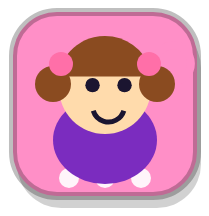
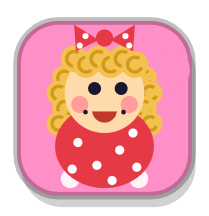
New kid looks, chore-reward framing, playtest fixes and a header image
- Redraw the 4 kids: Monster is a fuzzy purple monster, JoJo a potato
  creature, Little Miss has blonde ringlets and a polka-dot dress, and
  Frankenstein is a sad teenage monster in a hoodie. Portraits and
  screenshots are rendered again from the game.
- Describe the game as a reward for kids who finish their chores, and
  drop the kitchen-screen details from the docs and the game code.
- Fix playtest defects: one tap buys one kid, no idle jump to the intro
  page, the best-wave label, and a race in the playthrough test.
- Add a header image to the README.

diff --git a/game.html b/game.html
@@ -159,7 +159,7 @@ button:focus-visible { outline: .12em solid var(--gum); outline-offset: .1em; }
     <div class="chips">
       <button class="chip" id="speed" aria-label="Game speed">1×</button>
       <button class="chip" id="menu">Pause</button>
-      <button class="chip" id="home" hidden>Week</button>
+      <button class="chip" id="home" hidden>Home</button>
     </div>
   </header>
 
@@ -182,8 +182,8 @@ button:focus-visible { outline: .12em solid var(--gum); outline-offset: .1em; }
 'use strict';
 // ---------- Config ----------
 const COLS = 9, ROWS = 12, CS = 120, W = COLS * CS, H = ROWS * CS;
-const KIOSK = location.protocol === 'file:';   // on the kitchen screen: Home button + idle return
-const HOME_URL = 'index.html', IDLE_MS = 180000, LAST_WAVE = 30;
+const FROM_DISK = location.protocol === 'file:';   // opened from disk: show a Home button to the intro page
+const HOME_URL = 'index.html', LAST_WAVE = 30;
 
 const TOWERS = {
   nerf:    { name: 'Monster', role: 'Nerf blaster', cost: 50, air: true, tag: 'Fast darts. Hits kites.',
@@ -541,25 +541,90 @@ function drawKid(g, type, x, y, ang, lvl, fireAge) {
     g.restore();
   };
   if (behind) item();
-  g.fillStyle = D.shirt; ell(g, x, y + 18, 26, 22); g.fill();
-  g.fillStyle = D.skin; circ(g, x, y - 8, 23); g.fill();
-  g.fillStyle = D.hair;
+  const px = Math.cos(ang) * 2.5, pyy = Math.sin(ang) * 2, INK = '#1b1530';
+  // white eyes with pupils that follow the aim
+  const eyes = (dx, ey, r, look) => {
+    for (const s of [-1, 1]) {
+      g.fillStyle = '#fff'; circ(g, x + s * dx, ey, r); g.fill();
+      g.fillStyle = INK; circ(g, x + s * dx + px * look, ey + pyy * look, r * .5); g.fill();
+    }
+  };
   if (type === 'nerf') {
-    g.beginPath(); g.arc(x, y - 12, 24, Math.PI, 0); g.fill();
-    g.beginPath(); g.ellipse(x + Math.cos(ang) * 14, y - 14 + Math.sin(ang) * 4, 16, 6, 0, 0, Math.PI * 2); g.fill();
+    // Monster: a round, fuzzy purple monster with stubby horns and a fanged grin
+    g.fillStyle = '#5b3fc4'; ell(g, x, y + 19, 26, 22); g.fill();
+    g.fillStyle = '#b9a6ff'; ell(g, x, y + 23, 14, 12); g.fill();
+    g.fillStyle = '#fff1c9';
+    for (const s of [-1, 1]) {
+      g.beginPath(); g.moveTo(x + s * 8, y - 24); g.quadraticCurveTo(x + s * 20, y - 34, x + s * 21, y - 46);
+      g.quadraticCurveTo(x + s * 13, y - 40, x + s * 2, y - 28); g.closePath(); g.fill();
+    }
+    g.fillStyle = '#7356ec';
+    for (let i = 0; i < 14; i++) { const a = i / 14 * Math.PI * 2; circ(g, x + Math.cos(a) * 21, y - 8 + Math.sin(a) * 20, 6.5); g.fill(); }
+    circ(g, x, y - 8, 22); g.fill();
+    g.fillStyle = '#8a70ff'; circ(g, x - 8, y - 20, 5); g.fill(); circ(g, x + 9, y - 22, 4); g.fill();
+    eyes(8, y - 12, 7, 1.2);
+    g.fillStyle = INK; g.beginPath(); g.arc(x, y - 1, 11, .2, Math.PI - .2); g.closePath(); g.fill();
+    g.fillStyle = '#ff6fa8'; ell(g, x, y + 7, 5, 2.5); g.fill();
+    g.fillStyle = '#fff';
+    for (const s of [-1, 1]) { g.beginPath(); g.moveTo(x + s * 7, y + 1); g.lineTo(x + s * 3, y + 1); g.lineTo(x + s * 5, y + 6); g.closePath(); g.fill(); }
   } else if (type === 'balloon') {
-    for (let i = 0; i < 7; i++) { circ(g, x - 18 + i * 6, y - 26 + Math.abs(i - 3) * 2.5, 8); g.fill(); }
+    // JoJo: a lumpy potato creature with stick-on ears, googly eyes and a big pink nose
+    g.fillStyle = '#e07a5f';
+    for (const s of [-1, 1]) { g.beginPath(); g.ellipse(x + s * 26, y - 6, 6, 9, s * .3, 0, Math.PI * 2); g.fill(); }
+    g.fillStyle = '#c99b62'; g.beginPath(); g.ellipse(x, y + 3, 25, 34, .1, 0, Math.PI * 2); g.fill();
+    g.strokeStyle = '#9c7442'; g.lineWidth = 2.5; g.stroke();
+    g.fillStyle = '#a87d4a';
+    for (const [dx, dy, r] of [[-15, 14, 2.5], [12, 22, 2], [-8, 26, 1.8], [16, -2, 1.8], [-18, -14, 1.5]]) { circ(g, x + dx, y + dy, r); g.fill(); }
+    g.strokeStyle = '#4e9a3a'; g.lineWidth = 3; g.beginPath(); g.moveTo(x + 2, y - 30); g.quadraticCurveTo(x + 5, y - 38, x + 3, y - 43); g.stroke();
+    g.fillStyle = '#6cc04a'; g.beginPath(); g.ellipse(x + 9, y - 42, 7, 3.5, -.5, 0, Math.PI * 2); g.fill();
+    g.beginPath(); g.ellipse(x - 3, y - 41, 5, 2.8, .6, 0, Math.PI * 2); g.fill();
+    for (const s of [-1, 1]) {
+      g.fillStyle = '#fff'; circ(g, x + s * 9, y - 12, 8); g.fill(); g.strokeStyle = INK; g.lineWidth = 1.5; g.stroke();
+      g.fillStyle = INK; circ(g, x + s * 9 + px * 1.6, y - 10 + pyy * 1.6, 4); g.fill();
+    }
+    g.fillStyle = '#ff7aa2'; circ(g, x, y - 1, 6.5); g.fill(); g.fillStyle = 'rgba(255,255,255,.6)'; circ(g, x - 2, y - 3, 2); g.fill();
+    g.strokeStyle = '#d62828'; g.lineWidth = 4; g.lineCap = 'round'; g.beginPath(); g.arc(x, y + 6, 9, .35, Math.PI - .35); g.stroke(); g.lineCap = 'butt';
+    g.fillStyle = '#ff8c1a'; ell(g, x - 10, y + 37, 8, 4); g.fill(); ell(g, x + 10, y + 37, 8, 4); g.fill();
   } else if (type === 'bubble') {
-    g.beginPath(); g.arc(x, y - 10, 24, Math.PI * 1.05, Math.PI * 1.95); g.fill();
-    circ(g, x - 26, y - 10, 9); g.fill(); circ(g, x + 26, y - 10, 9); g.fill();
-    g.fillStyle = '#ff6fa8'; circ(g, x - 22, y - 20, 6); g.fill(); circ(g, x + 22, y - 20, 6); g.fill();
+    // Little Miss: blonde ringlet curls, a polka-dot bow and a polka-dot dress
+    const curl = (cx, cy, r) => {
+      g.fillStyle = '#f2c14e'; circ(g, cx, cy, r); g.fill();
+      g.strokeStyle = '#d19a1f'; g.lineWidth = 1.8; g.beginPath(); g.arc(cx, cy, r * .55, .4, Math.PI * 1.7); g.stroke();
+    };
+    for (const s of [-1, 1]) for (let k = 0; k < 4; k++) curl(x + s * (21 + (k % 2) * 3), y - 16 + k * 8, 6.5);
+    g.fillStyle = '#e63946'; ell(g, x, y + 20, 26, 22); g.fill();
+    g.fillStyle = '#fff';
+    for (const [dx, dy] of [[-14, 18], [-4, 30], [8, 22], [17, 31], [-17, 32], [4, 38], [15, 13]]) { circ(g, x + dx, y + dy, 2.4); g.fill(); }
+    g.fillStyle = '#fff8e7'; ell(g, x - 6, y + 5, 7, 4, -.3); g.fill(); ell(g, x + 6, y + 5, 7, 4, .3); g.fill();
+    g.fillStyle = '#ffdbac'; circ(g, x, y - 8, 21); g.fill();
+    for (let i = 0; i < 6; i++) curl(x - 16 + i * 6.4, y - 26 + (i % 2) * 3, 7);
+    g.fillStyle = '#e63946';
+    for (const s of [-1, 1]) { g.beginPath(); g.moveTo(x + s * 3, y - 36); g.lineTo(x + s * 16, y - 44); g.lineTo(x + s * 15, y - 30); g.closePath(); g.fill(); }
+    circ(g, x, y - 37, 4.5); g.fill();
+    g.fillStyle = '#fff'; for (const [dx, dy] of [[-10, -38], [11, -38], [-13, -33], [13, -33]]) { circ(g, x + dx, y + dy, 1.6); g.fill(); }
+    g.fillStyle = 'rgba(255,105,140,.55)'; circ(g, x - 13, y - 2, 4.5); g.fill(); circ(g, x + 13, y - 2, 4.5); g.fill();
+    g.fillStyle = INK; circ(g, x - 7 + px, y - 9 + pyy, 3.4); g.fill(); circ(g, x + 7 + px, y - 9 + pyy, 3.4); g.fill();
+    g.fillStyle = '#c0392b'; g.beginPath(); g.arc(x, y + 1, 6.5, .1, Math.PI - .1); g.closePath(); g.fill();
+    g.fillStyle = INK; circ(g, x - 10, y + 2, 1.2); g.fill(); circ(g, x + 10, y + 2, 1.2); g.fill();
   } else {
-    g.beginPath(); for (let i = 0; i < 5; i++) { const sx = x - 20 + i * 10; g.moveTo(sx - 6, y - 22); g.lineTo(sx, y - 38 - (i % 2) * 5); g.lineTo(sx + 6, y - 22); } g.fill();
-    g.beginPath(); g.arc(x, y - 12, 22, Math.PI * 1.1, Math.PI * 1.9); g.fill();
+    // Frankenstein: a sad teenage monster in a hoodie, with stitches, neck bolts and earbuds
+    g.fillStyle = '#3d414c'; g.beginPath(); g.roundRect(x - 27, y - 34, 54, 54, 22); g.fill();
+    g.fillStyle = '#4a4f5c'; ell(g, x, y + 20, 27, 22); g.fill();
+    g.strokeStyle = '#fff8e7'; g.lineWidth = 2; g.beginPath(); g.moveTo(x - 5, y + 8); g.lineTo(x - 6, y + 22); g.moveTo(x + 5, y + 8); g.lineTo(x + 6, y + 22); g.stroke();
+    g.fillStyle = '#9aa0a6'; g.fillRect(x - 25, y + 2, 7, 6); g.fillRect(x + 18, y + 2, 7, 6);
+    g.fillStyle = '#8fbf6a'; g.beginPath(); g.roundRect(x - 19, y - 30, 38, 42, 9); g.fill();
+    g.fillStyle = '#1b1b22'; g.fillRect(x - 20, y - 32, 40, 9);
+    g.beginPath(); for (let i = 0; i < 6; i++) { const sx = x - 20 + i * 8; g.moveTo(sx, y - 23); g.lineTo(sx + 4, y - 17); g.lineTo(sx + 8, y - 23); } g.fill();
+    g.strokeStyle = '#3e5a2c'; g.lineWidth = 1.6; g.beginPath(); g.moveTo(x - 12, y - 13); g.lineTo(x + 6, y - 15);
+    for (let i = 0; i < 4; i++) { const sx = x - 10 + i * 5; g.moveTo(sx, y - 17); g.lineTo(sx + .5, y - 11); } g.stroke();
+    g.strokeStyle = INK; g.lineWidth = 2.2; g.beginPath(); g.moveTo(x - 4, y - 9); g.lineTo(x - 13, y - 6); g.moveTo(x + 4, y - 9); g.lineTo(x + 13, y - 6); g.stroke();
+    g.fillStyle = INK; circ(g, x - 8 + px, y - 2 + pyy, 3); g.fill(); circ(g, x + 8 + px, y - 2 + pyy, 3); g.fill();
+    g.fillStyle = '#8fbf6a'; g.fillRect(x - 12, y - 6, 8, 3); g.fillRect(x + 4, y - 6, 8, 3);
+    g.fillStyle = 'rgba(120,200,255,.85)'; g.beginPath(); g.ellipse(x + 12, y + 4, 2, 3.2, 0, 0, Math.PI * 2); g.fill();
+    g.strokeStyle = INK; g.lineWidth = 2.4; g.beginPath(); g.arc(x, y + 12, 6, Math.PI + .5, Math.PI * 2 - .5); g.stroke();
+    g.fillStyle = '#f2f2f2'; circ(g, x - 19, y - 4, 2.6); g.fill(); circ(g, x + 19, y - 4, 2.6); g.fill();
+    g.strokeStyle = '#f2f2f2'; g.lineWidth = 1.4; g.beginPath(); g.moveTo(x - 19, y - 2); g.quadraticCurveTo(x - 16, y + 12, x - 3, y + 18); g.moveTo(x + 19, y - 2); g.quadraticCurveTo(x + 16, y + 12, x + 3, y + 18); g.stroke();
   }
-  const px = Math.cos(ang) * 2.5, pyy = Math.sin(ang) * 2;
-  g.fillStyle = '#1b1530'; circ(g, x - 8 + px, y - 8 + pyy, 3.6); g.fill(); circ(g, x + 8 + px, y - 8 + pyy, 3.6); g.fill();
-  g.strokeStyle = '#1b1530'; g.lineWidth = 2.5; g.beginPath(); g.arc(x + px, y + 1, 8, .3, Math.PI - .3); g.stroke();
   if (!behind) item();
 }
 
@@ -801,7 +866,7 @@ function infoHTML(tw) {
 }
 
 function overlayHTML() {
-  const homeBtn = KIOSK ? `<button class="btn ghost" data-act="home">Back to the week</button>` : '';
+  const homeBtn = FROM_DISK ? `<button class="btn ghost" data-act="home">Home</button>` : '';
   if (G.screen === 'title') {
     const b = best();
     return `<h1>Cookie Jar <em>Defense</em></h1>
@@ -812,7 +877,7 @@ function overlayHTML() {
         <li><span><b>Hold out for 30 waves.</b> Every ninja that reaches the porch eats cookies. Lose all 20 and the raid wins.</span></li>
       </ul>
       <div class="row"><button class="btn" data-act="play">Play</button>${homeBtn}</div>
-      ${b ? `<p class="small">Best today: ${b} waves</p>` : ''}`;
+      ${b ? `<p class="small">Your best: ${b} waves</p>` : ''}`;
   }
   if (G.screen === 'pause') {
     return `<h2>Paused</h2><p>The ninjas are frozen mid-tiptoe.</p>
@@ -883,7 +948,7 @@ function tapCell(c, r) {
     G.coins -= D.cost;
     G.towers.push({ id: G.nid++, type: G.build, c, r, lvl: 1, cd: 0, angle: -Math.PI / 2, mode: 'first', spent: D.cost, fireT: -9 });
     const [x, y] = c2p(c, r); fx('place', x, y);
-    if (G.coins < D.cost) G.build = null;
+    G.build = null;   // one tap buys one kid; pick the card again to buy another
     return;
   }
   G.sel = null;
@@ -930,16 +995,13 @@ $('ov').addEventListener('click', ev => {
 document.addEventListener('contextmenu', ev => ev.preventDefault());
 
 function goHome() { location.href = HOME_URL; }
-if (KIOSK) {
+if (FROM_DISK) {
   $('home').hidden = false;
-  let lastTouch = Date.now();
-  document.addEventListener('pointerdown', () => { lastTouch = Date.now(); }, true);
-  setInterval(() => { if (Date.now() - lastTouch > IDLE_MS) goHome(); }, 5000);
 }
 
 // ---------- Sizing and loop ----------
 function resize() {
-  const gut = KIOSK ? 0 : 32, vpad = KIOSK ? 0 : 8;
+  const gut = FROM_DISK ? 0 : 32, vpad = FROM_DISK ? 0 : 8;
   const u = Math.max(.2, Math.min((innerWidth - gut) / 1080, (innerHeight - vpad) / 1920));
   document.documentElement.style.setProperty('--u', u);
   const dpr = Math.min(2, devicePixelRatio || 1), bw = Math.round(W * u * dpr), bh = Math.round(H * u * dpr);

diff --git a/index.html b/index.html
@@ -87,7 +87,7 @@ section { padding-block: 3rem; border-top: 2px solid var(--panel-2); display: gr
 .shots img { width: 100%; height: auto; border-radius: 16px; box-shadow: 0 0 0 2px var(--line); }
 .shots figcaption { font-size: .92rem; color: var(--muted); line-height: 1.4; }
 
-/* Kiosk fit and next steps */
+/* Chore reward cards */
 .checks, .todo { list-style: none; margin: 0; padding: 0; display: grid; gap: .55rem; }
 .checks li, .todo li { display: grid; grid-template-columns: 1.6rem minmax(0, 1fr); gap: .5rem; align-items: start; }
 .checks li::before { content: ""; width: .95rem; height: .55rem; margin-top: .42rem; border-left: 3px solid var(--sun); border-bottom: 3px solid var(--sun); transform: rotate(-45deg); }
@@ -116,10 +116,10 @@ footer { padding-top: 2rem; border-top: 2px solid var(--panel-2); color: var(--m
 <div class="wrap">
   <header class="hero">
     <div>
-      <p class="eyebrow">Kitchen screen · game prototype · October 2026</p>
+      <p class="eyebrow">Chore reward · game prototype · October 2026</p>
       <h1>Cookie Jar <em>Defense</em></h1>
-      <p class="lede">A tower defense game for the kitchen touchscreen. A gang of very silly ninjas sneaks across the backyard to raid the cookie jar, and Monster, JoJo, Little Miss and Frankenstein have to stop them.</p>
-      <p class="muted">The kitchen screen shows the family week. This adds something to tap while the pasta boils. It goes back to the week by itself when nobody is playing.</p>
+      <p class="lede">A small tower defense game that kids earn by finishing their chores. A gang of very silly ninjas sneaks across the backyard to raid the cookie jar, and Monster, JoJo, Little Miss and Frankenstein have to stop them.</p>
+      <p class="muted">Finish the chores, earn a few rounds. It works by touch or with a mouse, and there is nothing to install.</p>
       <div class="actions">
         <a class="btn" href="#play">Play the prototype</a>
         <a href="game.html">Open the game on its own page</a>
@@ -143,10 +143,10 @@ footer { padding-top: 2rem; border-top: 2px solid var(--panel-2); color: var(--m
     <p class="muted">Each kid has their own job and 3 levels. Only Monster and Frankenstein can reach the kites.</p>
     <div class="lawn">
       <ul class="roster kids">
-        <li class="who"><img src="img/kid-nerf.png" width="209" height="216" alt="Monster: orange cap, blue shirt, foam blaster."><div><h3>Monster</h3><p>Nerf blaster. Fast foam darts, cheap and reliable.</p><div class="meta"><span class="pill sun">50 coins</span><span class="pill sky">Hits kites</span></div></div></li>
-        <li class="who"><img src="img/kid-balloon.png" width="209" height="216" alt="JoJo: curly hair, red shirt, water balloon."><div><h3>JoJo</h3><p>Water balloons. Each one soaks a whole group.</p><div class="meta"><span class="pill sun">80 coins</span><span class="pill">Splash</span></div></div></li>
-        <li class="who"><img src="img/kid-bubble.png" width="209" height="216" alt="Little Miss: pigtails with pink bows, purple shirt, bubble wand."><div><h3>Little Miss</h3><p>Bubble wand. Slows ninjas down, up to 3 at once at level 3.</p><div class="meta"><span class="pill sun">70 coins</span><span class="pill">Slows</span></div></div></li>
-        <li class="who"><img src="img/kid-chicken.png" width="209" height="216" alt="Frankenstein: spiky blond hair, green shirt, rubber chicken."><div><h3>Frankenstein</h3><p>Rubber chicken. Throws it across the yard, and the bonk stuns.</p><div class="meta"><span class="pill sun">140 coins</span><span class="pill sky">Hits kites</span><span class="pill">Long range</span></div></div></li>
+        <li class="who"><img src="img/kid-nerf.png" width="209" height="216" alt="Monster: a round, fuzzy purple monster with stubby horns, a fanged grin and a foam blaster."><div><h3>Monster</h3><p>Nerf blaster. Fast foam darts, cheap and reliable.</p><div class="meta"><span class="pill sun">50 coins</span><span class="pill sky">Hits kites</span></div></div></li>
+        <li class="who"><img src="img/kid-balloon.png" width="209" height="216" alt="JoJo: a potato creature with googly eyes, stick-on ears, a pink nose, a sprout on top and a water balloon."><div><h3>JoJo</h3><p>Water balloons. Each one soaks a whole group.</p><div class="meta"><span class="pill sun">80 coins</span><span class="pill">Splash</span></div></div></li>
+        <li class="who"><img src="img/kid-bubble.png" width="209" height="216" alt="Little Miss: blonde ringlet curls, a red polka-dot bow and dress, rosy cheeks and a bubble wand."><div><h3>Little Miss</h3><p>Bubble wand. Slows ninjas down, up to 3 at once at level 3.</p><div class="meta"><span class="pill sun">70 coins</span><span class="pill">Slows</span></div></div></li>
+        <li class="who"><img src="img/kid-chicken.png" width="209" height="216" alt="Frankenstein: a sad teenage monster in a hoodie, with green skin, stitches, neck bolts, earbuds and a rubber chicken."><div><h3>Frankenstein</h3><p>Rubber chicken. Throws it across the yard, and the bonk stuns.</p><div class="meta"><span class="pill sun">140 coins</span><span class="pill sky">Hits kites</span><span class="pill">Long range</span></div></div></li>
       </ul>
     </div>
   </section>
@@ -170,7 +170,7 @@ footer { padding-top: 2rem; border-top: 2px solid var(--panel-2); color: var(--m
     <div class="play">
       <div class="notes">
         <h2 id="play-h">Play it here</h2>
-        <p>This is the same file that would run on the kitchen screen, which is a portrait 1080 × 1920 touchscreen. It works with a mouse too, and a mouse also shows each kid's range before you place them.</p>
+        <p>It is laid out for a tall portrait screen and plays by touch. It works with a mouse too, and a mouse also shows each kid's range before you place them.</p>
         <p class="muted">The <b>1×</b> button switches to double speed. <b>Pause</b> has Restart. Your best wave is kept in this browser only.</p>
         <p><a href="game.html">Open the game on its own page</a> if the frame is too small.</p>
       </div>
@@ -188,15 +188,14 @@ footer { padding-top: 2rem; border-top: 2px solid var(--panel-2); color: var(--m
   </section>
 
   <section aria-labelledby="fit">
-    <h2 id="fit">Built for the kitchen screen</h2>
+    <h2 id="fit">Made as a chore reward</h2>
     <div class="two">
       <div class="card">
-        <h3>Fits the kiosk's rules</h3>
+        <h3>Why it fits</h3>
         <ul class="checks">
-          <li><span>One self-contained file (54 KB) with one inline script and no image files. The only outside request is the display font, and without it the game falls back to Atkinson Hyperlegible.</span></li>
-          <li><span>Laid out for 1080 × 1920 portrait. Everything works by tap, with no hover and no keyboard.</span></li>
-          <li><span>On the kiosk it shows a <b>Week</b> button. After 3 minutes with no touch, it goes back to the week on its own.</span></li>
-          <li><span>Kept separate from the week page, so that page's size limits and tests don't change.</span></li>
+          <li><span>A reward, not a time sink: a few waves take a few minutes, and the game is easy to stop between waves.</span></li>
+          <li><span>One self-contained file (about 60 KB) with no image files and nothing to install.</span></li>
+          <li><span>Plays by tap on a phone or tablet, and with a mouse on a computer.</span></li>
           <li><span>The ninjas are slapstick, not violent. Nobody gets hurt.</span></li>
         </ul>
       </div>
@@ -209,30 +208,8 @@ footer { padding-top: 2rem; border-top: 2px solid var(--panel-2); color: var(--m
     </div>
   </section>
 
-  <section aria-labelledby="next">
-    <h2 id="next">What it takes to ship</h2>
-    <div class="two">
-      <ul class="todo">
-        <li><span>Write it up as a spec in the wiki, with an ADO item next to K1–K6, so the open questions get rulings.</span></li>
-        <li><span>Add a small game tile to the week page. It needs a link, not more script, so <code>kiosk.js</code> stays under its 3 KB limit.</span></li>
-        <li><span>Have the morning build write <code>game.html</code> next to <code>index.html</code>, and have the Pi pull both files.</span></li>
-        <li><span>Make the reload watcher cover the whole folder, not only <code>index.html</code>.</span></li>
-        <li><span>Pin the Lilita One font the same way as Atkinson Hyperlegible, or fall back to Atkinson for headings.</span></li>
-        <li><span>Add a browser test: a tap at 1080 × 1920 places a kid, and 3 minutes without a touch goes back to the week.</span></li>
-      </ul>
-      <div class="card">
-        <h3>Open questions</h3>
-        <ul class="qs">
-          <li><b>When can it be played?</b><span>Proposed: any time the screen is on. A school-morning lockout is easy to add.</span></li>
-          <li><b>How long before it goes back to the week?</b><span>Proposed: 3 minutes with no touch, even mid-wave.</span></li>
-          <li><b>Should high scores last?</b><span>Proposed: no. The browser resets each morning, so "best wave" is for today only. Keeping it would need a way to save scores on the house server.</span></li>
-        </ul>
-      </div>
-    </div>
-  </section>
-
   <footer>
-    <p>Cookie Jar Defense is a prototype for the household kitchen screen. Its code isn't in the kiosk repository yet.</p>
+    <p>Cookie Jar Defense is a prototype: a small game for kids to play after they finish their chores.</p>
   </footer>
 </div>
 </body>

diff --git a/tests/playthrough.js b/tests/playthrough.js
@@ -61,7 +61,8 @@ function serve() {
       } else if (placed.length && (next >= PLAN.length || c >= 250)) {
         await tap(...placed[up++ % placed.length]);
         const btn = page.locator('[data-act=up]');
-        if (await btn.count() && await btn.isEnabled()) await btn.click({ force: true });
+        // the panel can close between the check and the click; a missed upgrade is not a failure
+        if (await btn.count() && await btn.isVisible() && await btn.isEnabled()) await btn.click({ force: true, timeout: 2000 }).catch(() => {});
         await page.locator('.ihead [data-act=close]').click({ force: true }).catch(() => {});
         if (guard > 6) break;
       } else break;

diff --git a/README.md b/README.md
@@ -1,30 +1,32 @@
+![Cookie Jar Defense: Little Miss, Frankenstein, Monster and JoJo on the backyard lawn at night](img/header.png)
+
 # Cookie Jar Defense
 
-A tower defense game for the kitchen touchscreen. A gang of very silly ninjas sneaks across the backyard to raid the cookie jar, and Monster, JoJo, Little Miss and Frankenstein have to stop them.
+A small tower defense game that kids earn by finishing their chores. A gang of very silly ninjas sneaks across the backyard to raid the cookie jar, and Monster, JoJo, Little Miss and Frankenstein have to stop them.
 
 **Play it:** https://blklite.github.io/cookie-jar-defense/ (the intro page, with the game in a frame) or [the game on its own](https://blklite.github.io/cookie-jar-defense/game.html).
 
 ![The game mid-wave](img/play.jpg)
 
-This is a prototype. It is planned as **K10** of the kitchen screen (Feature #134). The spec is `agent-specs/kitchen-k10-game.md` in the project wiki.
+This is a prototype. No real person has played a full game yet.
 
 ## Play
 
-Open `game.html` in a browser. It is one self-contained file with no build step. A tall window works best; it is laid out for a 1080 × 1920 portrait touchscreen and scales down to a phone.
+Open `game.html` in a browser. It is one self-contained file with no build step. A tall window works best. It is laid out for a 1080 × 1920 portrait touchscreen and scales down to a phone. It also works with a mouse, and a mouse shows each kid's range before you place them.
 
 `index.html` is the intro page: what the game is, the cast, screenshots, and the game itself in a frame.
 
-1. **Pick a kid** at the bottom, then tap the grass to put them there. Kids cost allowance coins.
+1. **Pick a kid** at the bottom, then tap the grass to put them there. Kids cost allowance coins. Each tap buys one kid.
 2. **Start the wave.** Ninjas come through the back gate and follow the garden path to the porch. Each one that gets there eats cookies.
 3. **Tap a kid** to upgrade them (3 levels), sell them, or choose who they aim at: first, strongest or closest.
 4. **Last 30 waves** with your 20 cookies. After wave 30 you can keep going.
 
-| Kid | Job | Cost |
-|---|---|---|
-| Monster | Nerf blaster: fast darts, hits kites | 50 |
-| JoJo | Water balloons: splash | 80 |
-| Little Miss | Bubble wand: slows, up to 3 at level 3 | 70 |
-| Frankenstein | Rubber chicken: long range, hits kites, stuns | 140 |
+| Kid | Looks like | Job | Cost |
+|---|---|---|---|
+| Monster | A round, fuzzy purple monster with stubby horns and a fanged grin | Nerf blaster: fast darts, hits kites | 50 |
+| JoJo | A potato creature with googly eyes, stick-on ears and a sprout on top | Water balloons: splash | 80 |
+| Little Miss | Blonde ringlet curls and a red polka-dot bow and dress | Bubble wand: slows, up to 3 at level 3 | 70 |
+| Frankenstein | A sad teenage monster in a hoodie, with stitches, neck bolts and earbuds | Rubber chicken: long range, hits kites, stuns | 140 |
 
 | Ninja | From wave | Trick |
 |---|---|---|
@@ -37,16 +39,7 @@ Open `game.html` in a browser. It is one self-contained file with no build step.
 
 A tagged ninja vanishes in a puff of smoke. Nobody gets hurt.
 
-## Kitchen screen mode
-
-When the page is opened from disk (`file:`), as on the kitchen screen:
-
-- a **Week** button goes back to `index.html` in the same folder (the week page on the kiosk);
-- 3 minutes with no touch also goes back to the week, even mid-wave.
-
-The best wave is kept in `localStorage`, so on the kiosk's incognito browser it resets each morning.
-
-Before it can ship to the kiosk, `game.html` has to follow the kiosk page rules: a `default-src 'none'` content security policy with the script allowed by hash, and no outside links. Today it loads its display font from Google Fonts. The K10 spec lists this and the other steps.
+Your best wave is kept in this browser's `localStorage`. When you open `game.html` straight from disk, a **Home** button goes back to `index.html` in the same folder.
 
 ## Test
 
@@ -56,15 +49,31 @@ npm test               # a scripted player plays 10 waves
 WAVES=30 npm test      # the full game, a few minutes
 ```
 
-The test serves this folder, opens `game.html` in headless Chromium at 540 × 960 with touch, and runs a fake clock at 2× speed. It fails on any page error or page scroll. Set `CHROMIUM=/path/to/chrome` to use a browser that is already installed; otherwise run `npx playwright install chromium` first.
+The test serves this folder, opens `game.html` in headless Chromium at 540 × 960 with touch, and runs a fake clock at 2× speed. It fails on any page error or page scroll. Set `CHROMIUM=/path/to/chrome` to use a browser that is already installed (Microsoft Edge works too); otherwise run `npx playwright install chromium` first.
 
-**Balance so far:** the scripted player, which spends every coin and places kids well, wins wave 30 with 17 of 20 cookies. It loses its first cookies to the kites of wave 5. No person has played it yet.
+**Balance so far:** the scripted player, which spends every coin and places kids well, wins wave 30 with 17 of 20 cookies. It loses its first cookies to the kites of wave 5.
+
+## Playtest notes
+
+A playtest on 2026-11-07, at phone size and on a desktop, found and fixed these defects:
+
+| Defect | Fix |
+|---|---|
+| After you placed a kid, that kid stayed selected, so the next tap on the grass bought another one by accident. | Each tap buys one kid. Pick the card again to buy another. |
+| Opened from disk, the game jumped to the intro page after 3 minutes with no tap, even in the middle of a wave. | The idle jump is removed. |
+| The title screen said "Best today", but the best wave is kept for good. | It now says "Your best". |
+| The playthrough test could click the Upgrade button while the kid panel was closing, and stopped at wave 13 or 20. | The test clicks Upgrade only when the button is visible, and a missed click is not a failure. All 30 waves now pass. |
+
+Still open:
+
+- Kids can stand on the top row, partly under the back fence.
+- Frankenstein's hood is a plain rounded shape, so at small sizes it reads as a box.
 
 ## Files
 
 | Path | What |
 |---|---|
-| `game.html` | The game: HTML, CSS and 1 inline script, about 55 KB |
+| `game.html` | The game: HTML, CSS and 1 inline script, about 60 KB |
 | `index.html` | The intro page |
-| `img/` | Screenshots and the character drawings used by the intro page (the game draws its own) |
+| `img/` | The header, screenshots and the character drawings used by the intro page (the game draws its own) |
 | `tests/playthrough.js` | The headless playthrough test |
